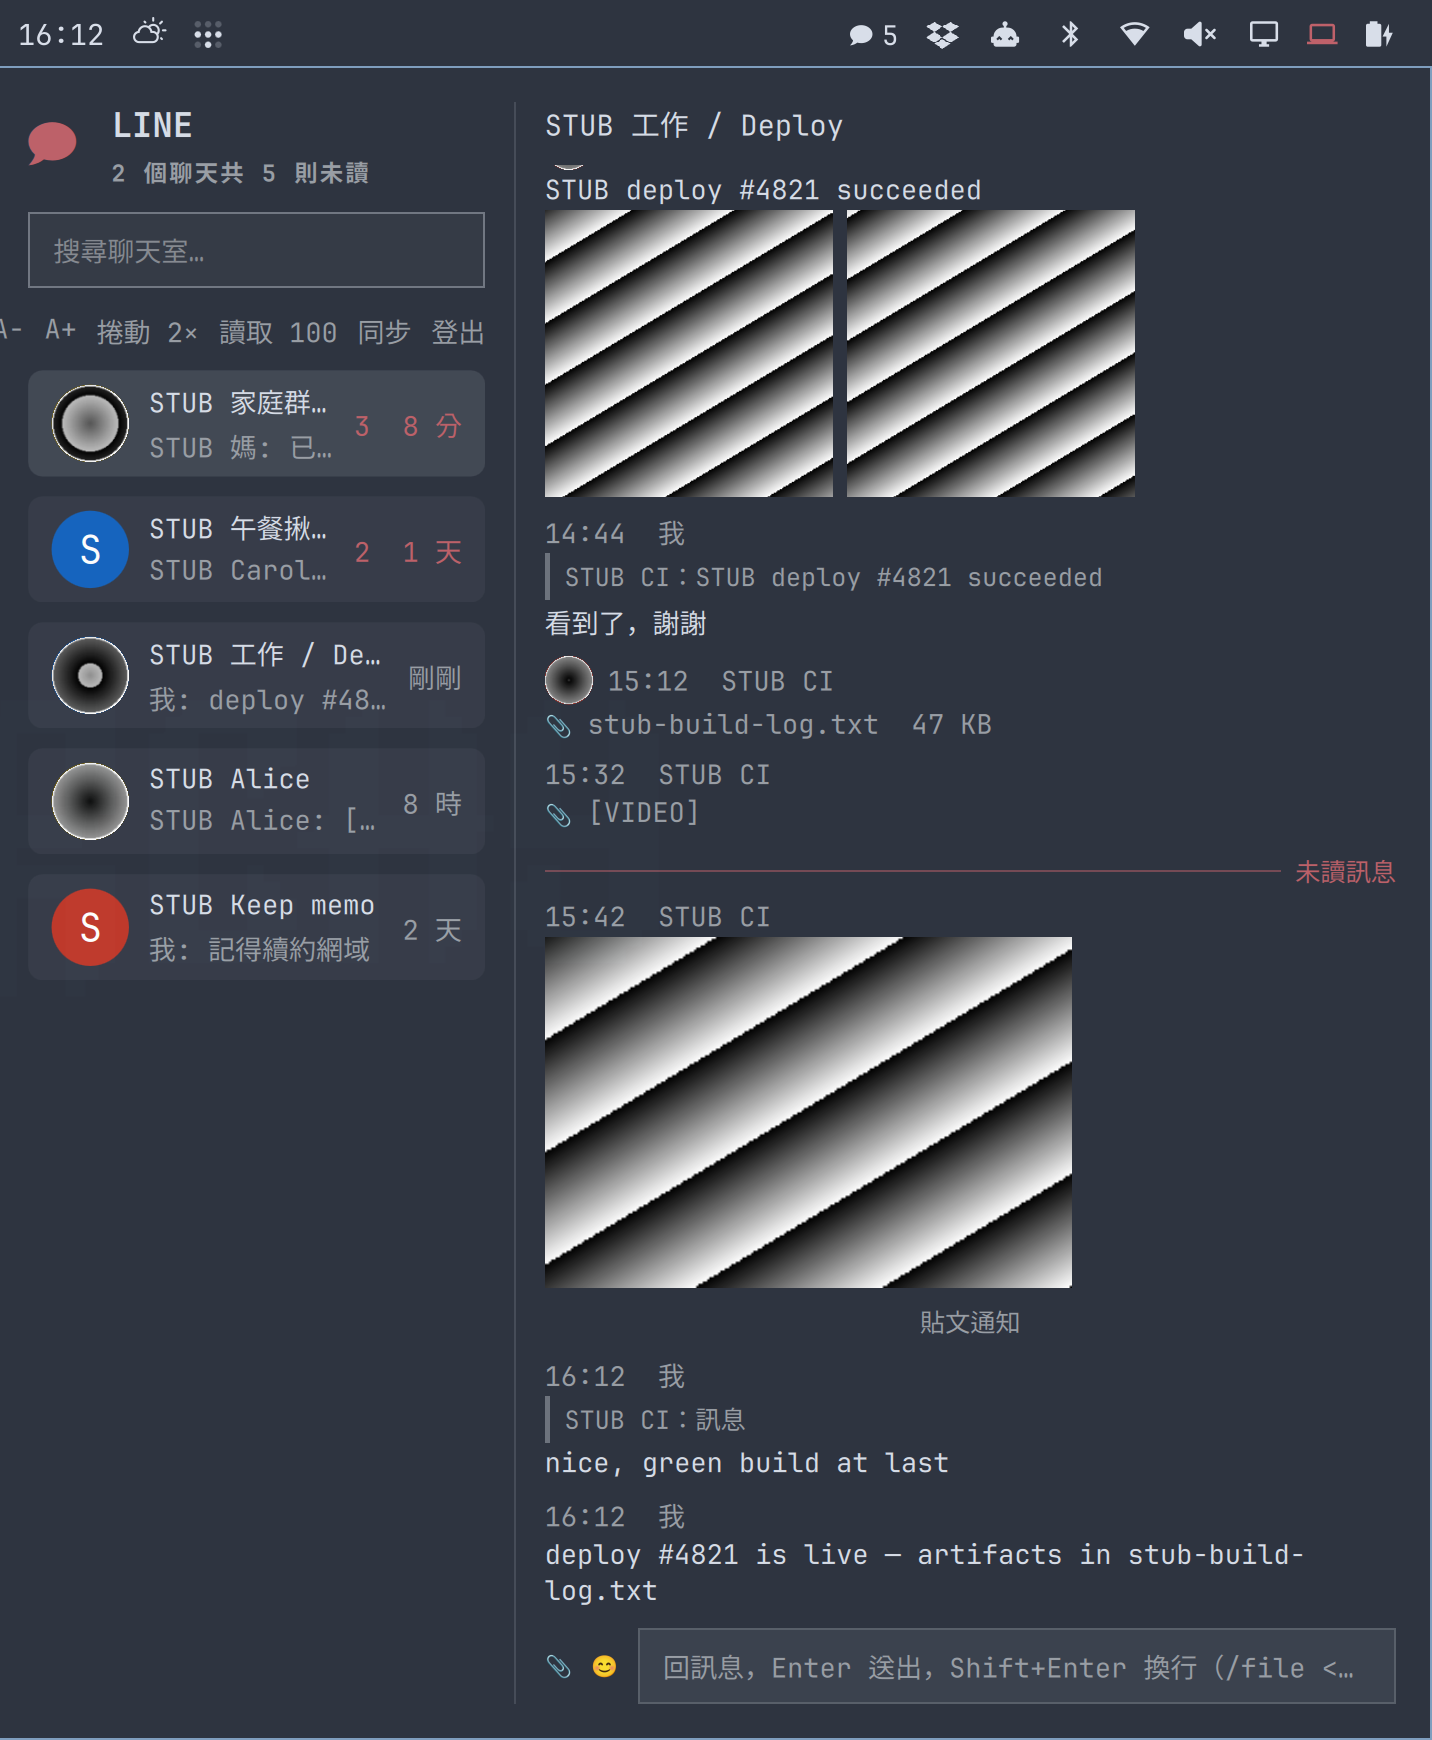
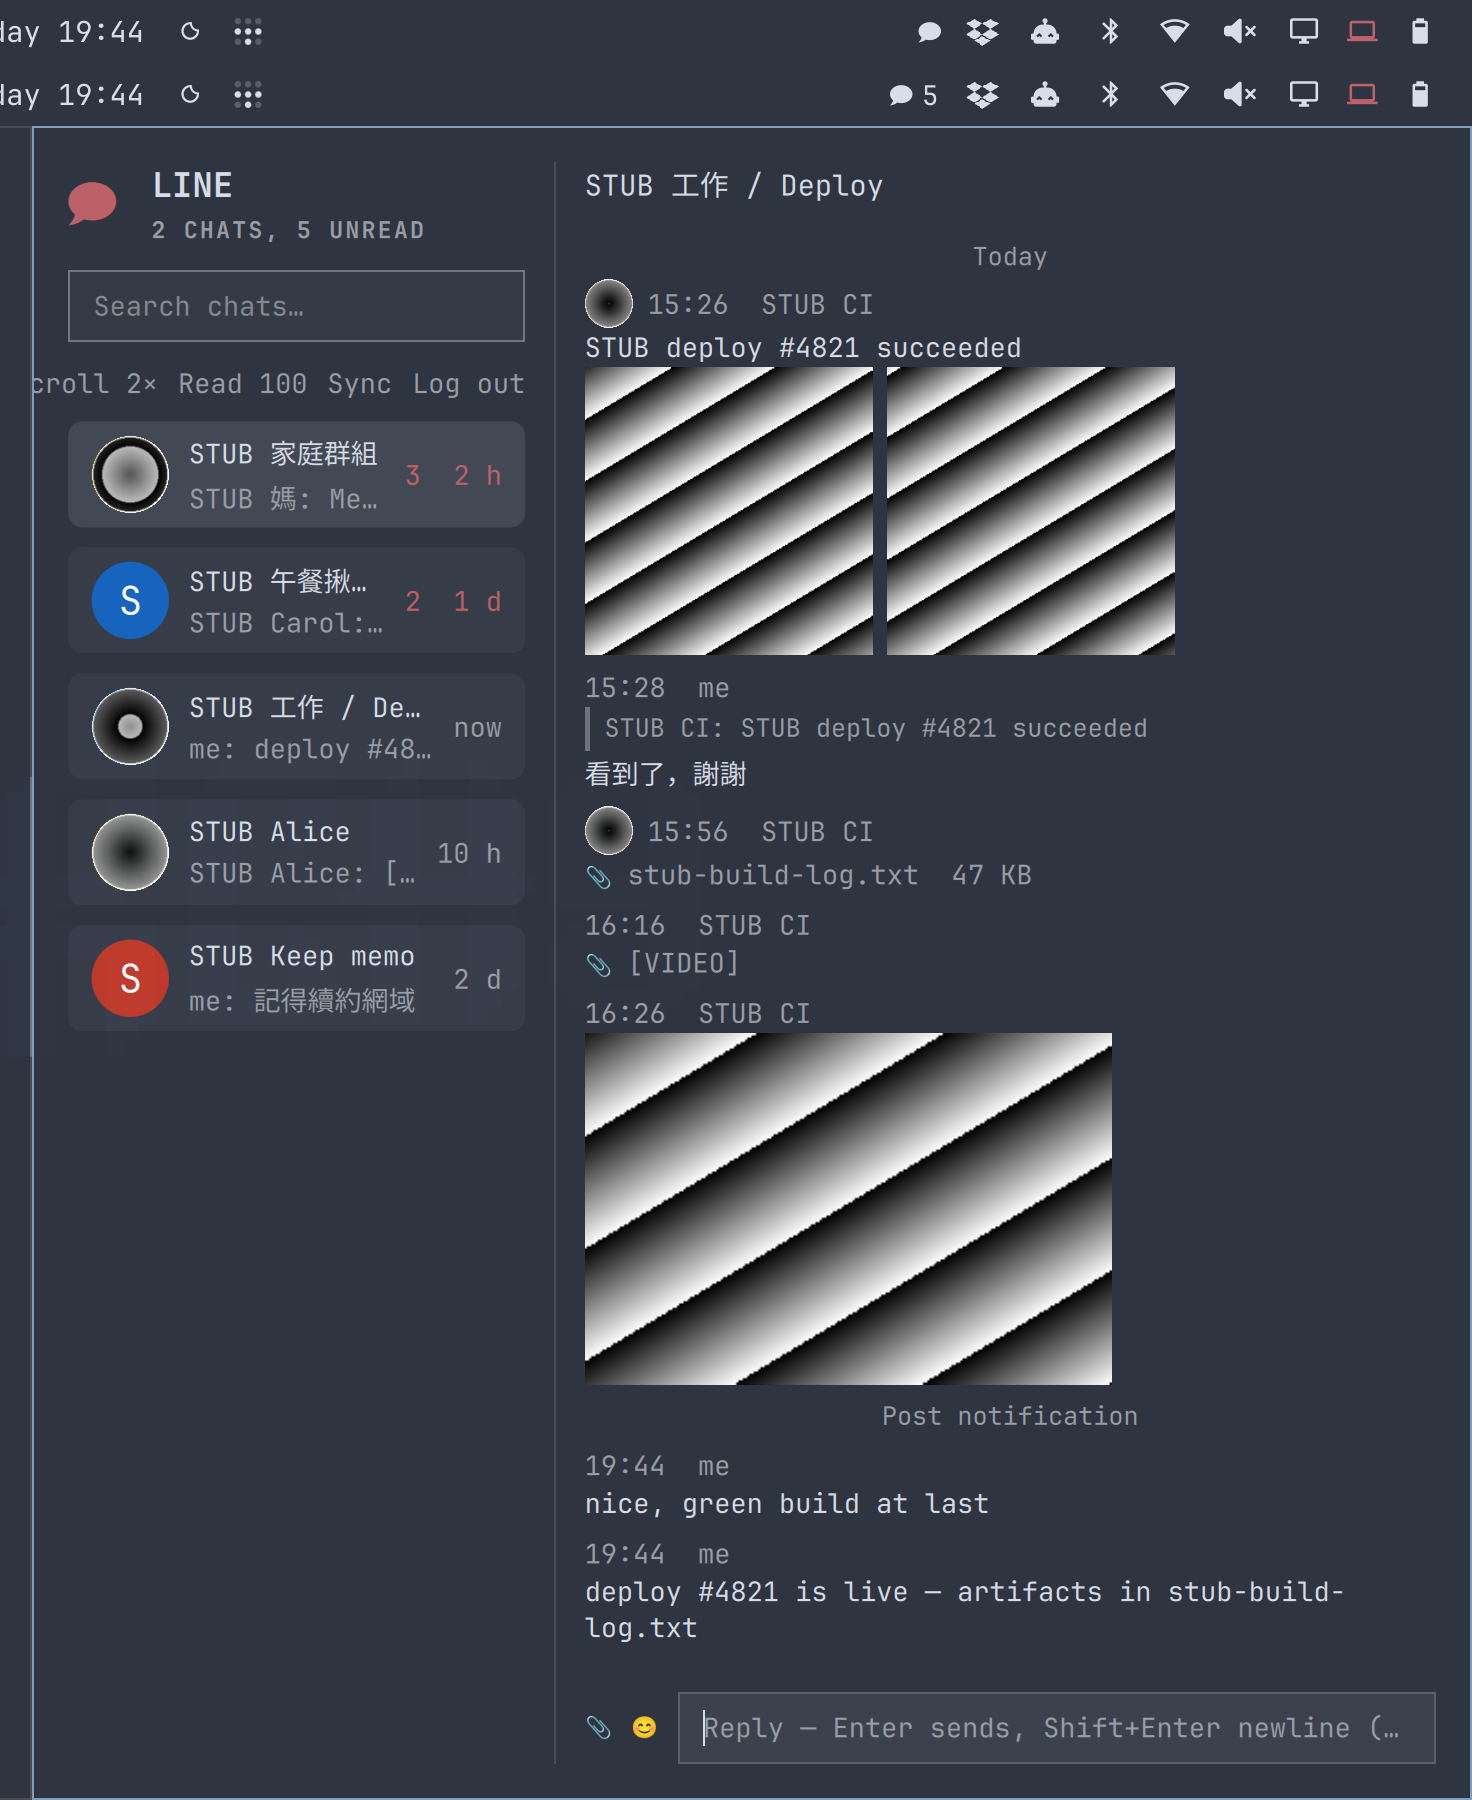
docs: bilingual UI — English-interface screenshot and language setting

diff --git a/README.md b/README.md
@@ -5,12 +5,12 @@
 Unread LINE count in the bar. Click it to search chats, read messages, reply,
 and send files.
 
-| ![Chinese conversation — mentions, reactions, read receipts, an unsent message and an expired file](docs/screenshot-zh.png) | ![English chat content — a FLEX deploy card, quote replies, file and video attachments](docs/screenshot-en.png) |
+| ![Chinese conversation — mentions, reactions, read receipts, an unsent message and an expired file](docs/screenshot-zh.png) | ![English UI — a FLEX deploy card, quote replies, file and video attachments](docs/screenshot-en.png) |
 | :-: | :-: |
-| 中文對話 — mention、表情、已讀、收回、過期檔案 | English chat content — FLEX card, quote replies, file & video attachments |
+| 中文介面與對話 — mention、表情、已讀、收回、過期檔案 | English interface — FLEX card, quote replies, file & video attachments |
 
-*UI strings are Traditional Chinese (the shell is zh-TW); message content in
-any language renders fine, as shown above.*
+*The panel speaks Traditional Chinese or English (see Language under
+Settings); message content in any language renders fine either way.*
 
 This repo has two halves:
 
@@ -645,6 +645,17 @@ carrying a path **go only to the panel, never the journal**: a missing
 while the journal only gets "找不到檔案".
 
 ## Settings
+
+Panel language (`language`) is `System`, `繁體中文` or `English`. `System`
+follows your OS locale — zh* gets 繁體中文, everything else gets English —
+so an English system still gets 繁體中文 by picking it explicitly:
+
+```bash
+omarchy bar set io.github.frankekn.line language "繁體中文"
+```
+
+Daemon-reported errors and message placeholders follow the same setting at
+display time; the wire protocol stays unchanged.
 
 `A−` `A+` next to the search box adjust text scale directly (80–160, steps of
 10). Written back to shell.json, so it survives reboots.
@@ -1290,7 +1301,7 @@ single Deno file) — with these additions:
 - One chat-list refresh per send (was two)
 - Esc in the `twoPane` layout keeps the right pane instead of closing all
 - Reopened chats serve the history cache — no network wait
-- UI strings localized to Traditional Chinese
+- UI strings localized — Traditional Chinese and English
 - Search also matches message previews, not just chat names
 - Video thumbnails (non-E2EE)
 - Media cache capped at 14 days / 500 MB, auto-swept
@@ -1353,7 +1364,7 @@ map back at `jsr:@evex/linejs`.
 ## Known limits
 
 - Unofficial client — account risk (see above)
-- Panel UI strings are Traditional Chinese only — no English UI yet
+- Panel UI is Traditional Chinese or English; message content is untranslated
 - Multi-person rooms (`r…` mids) can't take files — linejs's
   `uploadMediaByE2EE` only accepts `u`/`c`
 - E2EE videos show 📎 rather than a thumbnail: the thumbnail is encrypted

diff --git a/README.zh-TW.md b/README.zh-TW.md
@@ -4,9 +4,9 @@
 
 Bar 上的 LINE 未讀數，點開可以搜尋聊天室、讀訊息、回訊息、傳檔案。
 
-| ![中文對話——mention、表情、已讀、收回、過期檔案](docs/screenshot-zh.png) | ![英文訊息內容——FLEX 部署卡、引言回覆、檔案與影片附件](docs/screenshot-en.png) |
+| ![中文介面與對話——mention、表情、已讀、收回、過期檔案](docs/screenshot-zh.png) | ![英文介面——FLEX 部署卡、引言回覆、檔案與影片附件](docs/screenshot-en.png) |
 | :-: | :-: |
-| 中文對話 — mention、表情、已讀、收回、過期檔案 | English chat content — FLEX card, quote replies, file & video attachments |
+| 中文介面與對話 — mention、表情、已讀、收回、過期檔案 | 英文介面 — FLEX 部署卡、引言回覆、檔案與影片附件 |
 
 這個 repo 有兩半：
 
@@ -491,6 +491,17 @@ contentType 仍是 `FILE`／`IMAGE`，只是沒有內容 —— daemon 把它標
 `找不到檔案: <路徑>`（路徑是使用者自己選的），journal 只有「找不到檔案」。
 
 ## 設定
+
+介面語言（`language`）有 `System`、`繁體中文`、`English` 三個值。`System` 跟著
+系統語系走 —— zh* 是繁體中文，其他是英文 —— 所以英文系統要用繁中，明確選
+`繁體中文` 就好：
+
+```bash
+omarchy bar set io.github.frankekn.line language "English"
+```
+
+daemon 回來的錯誤訊息和訊息佔位字在顯示時也會跟著這個設定換；線上協定的
+字串本身不變。
 
 面板搜尋框右邊的 `A−` `A+` 直接調字級（80–160，每次 10）。它會寫回 shell.json，
 所以重開機也還在。
@@ -1029,7 +1040,7 @@ daemon 原本是另一個 repo，現在收進來（改寫成單檔 Deno），並
 - 每次送出只 refresh 一次聊天室清單（原本兩次）
 - `twoPane` 版面按 Esc 保留右邊那欄，不會整個收掉
 - 重開聊天室吃 history 快取，不用等網路
-- 介面字串中文化
+- 介面字串雙語化 —— 繁體中文與英文
 - 搜尋同時比對訊息預覽，不只聊天室名稱
 - 影片縮圖（非 E2EE）
 - 媒體快取上限 14 天／500 MB，自動掃
